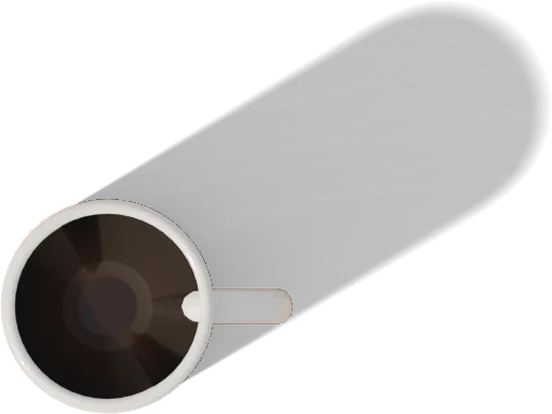
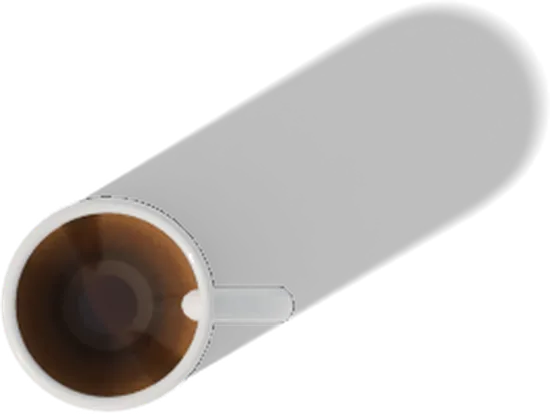
點手機不會再選到後面的報告；乖乖的黑邊拿掉、咖啡看得出是咖啡；乖乖那一站看得到整台筆電
- 兩個東西在畫面上靠得很近時，以手指實際點到的表面決定是哪一個
- 頁面上的乖乖：材質接上貼圖的透明，輪廓外不再是一圈黑
- 頁面上的咖啡：杯緣一圈奶泡、表面有光澤，從上面看不再像一個洞
- 乖乖一站改從右邊拍：旁邊的筆電整台入鏡，標題不再被切一半

Changed region(s): [[0.0, 0.4638, 0.5564, 1.0]]

diff --git a/components/desk/DeskScene.vue b/components/desk/DeskScene.vue
@@ -203,7 +203,7 @@ const STOPS = [
   { id: 'tablet', side: 'right', cam: [-0.3, -0.38, 0.99], at: [-0.45, 0.09, 0.84], spot: [-0.45, 0.09, 0.84] },
   { id: 'reports', cam: [0.48, -0.25, 1.15], at: [0.5, 0.18, 0.78], spot: [0.52, 0.2, 0.79] },
   { id: 'shelf', side: 'right', cam: [0.25, -0.45, 1.5], at: [0.12, 0.52, 1.32], spot: [0.05, 0.52, 1.32] }, // from the right, so the lamp head stays out of frame
-  { id: 'kuaikuai', cam: [0.08, -0.26, 0.98], at: [0.25, 0.13, 0.84], spot: [0.25, 0.12, 0.84] },
+  { id: 'kuaikuai', cam: [0.32, -0.24, 0.98], at: [0.25, 0.13, 0.84], spot: [0.25, 0.12, 0.84] }, // from the right: the laptop beside it whole, not its screen cut mid-sentence
 ]
 
 const stops = computed(() => {
@@ -947,20 +947,30 @@ async function start(small = false) {
     kick()
   }
 
+  const ray = new THREE.Raycaster()
   const onMove = (ev) => {
     const r = canvas.value.getBoundingClientRect()
     mouse.x = ((ev.clientX - r.left) / r.width) * 2 - 1
     mouse.y = ((ev.clientY - r.top) / r.height) * 2 - 1
     // Hover: the nearest stop whose spot is within reach of the pointer.
-    let best = null
+    const near = []
     path.forEach((p, i) => {
       if (!p.spot) return
       const v = p.spot.clone().project(camera)
       const x = ((v.x + 1) / 2) * r.width
       const y = ((1 - v.y) / 2) * r.height
       const d = Math.hypot(x - (ev.clientX - r.left), y - (ev.clientY - r.top))
-      if (v.z < 1 && d < 70 && (!best || d < best.d)) best = { i, d, x, y }
+      if (v.z < 1 && d < 70) near.push({ i, d, x, y })
     })
+    near.sort((a, b) => a.d - b.d)
+    let best = near[0] ?? null
+    // Two things close on screen (the phone stands in front of the reports):
+    // what the pointer is actually on decides, the thing nearest the surface hit.
+    if (near.length > 1) {
+      ray.setFromCamera(new THREE.Vector2(mouse.x, -mouse.y), camera)
+      const hit = ray.intersectObject(gltf.scene, true)[0]
+      if (hit) best = near.reduce((a, c) => (path[c.i].spot.distanceTo(hit.point) < path[a.i].spot.distanceTo(hit.point) ? c : a))
+    }
     // The thing you are standing at opens; any other thing walks you to it.
     const st = best && stops.value[best.i]
     const here = best && best.i === on.value && !moving.value && st.open

diff --git a/components/pages/HomePage.vue b/components/pages/HomePage.vue
@@ -205,8 +205,8 @@ const repo = (n) => alsoBuilt.find((a) => a.name === n)
 // Desk props for the right margin (studio/desk/ship_props.py prints the sizes;
 // they show at half size, sharp on a 2x screen). Same scale for all three.
 const props = [
-  { n: 'mug', w: 276, h: 207 },
-  { n: 'kuaikuai', w: 285, h: 276 },
+  { n: 'mug', w: 275, h: 207 },
+  { n: 'kuaikuai', w: 276, h: 265 },
   { n: 'plant', w: 384, h: 304 },
 ]
 

diff --git a/studio/desk/render_props.py b/studio/desk/render_props.py
@@ -39,6 +39,58 @@ kk = bpy.data.objects['kuaikuai']
 loc = kk.matrix_world.translation.copy()
 kk.matrix_world = Matrix.Translation((loc.x, loc.y, TOP + 0.03)) @ Euler((-math.pi / 2, 0, math.radians(-18))).to_matrix().to_4x4()
 
+# The bag's texture carries its true outline in alpha. Unconnected, the clear
+# margin rendered black around the bag; connected, it cuts the shape and its shadow.
+for m in kk.data.materials:
+    nt = m.node_tree
+    tex = next(n for n in nt.nodes if n.type == 'TEX_IMAGE')
+    nt.links.new(tex.outputs['Alpha'], nt.nodes['Principled BSDF'].inputs['Alpha'])
+
+
+def lin(h):
+    """'#rrggbb' (sRGB) to linear RGBA for colour ramps."""
+    c = [int(h[i:i + 2], 16) / 255 for i in (1, 3, 5)]
+    return [x / 12.92 if x <= 0.04045 else ((x + 0.055) / 1.055) ** 2.4 for x in c] + [1]
+
+
+# Seen from straight above, flat dark coffee read as a hole in the cup. Crema
+# gathers at the rim, mottled, and the surface is glossy enough to catch the window.
+cf = bpy.data.materials['coffee']
+nt = cf.node_tree
+bsdf = nt.nodes['Principled BSDF']
+tc = nt.nodes.new('ShaderNodeTexCoord')
+sep = nt.nodes.new('ShaderNodeSeparateXYZ')
+comb = nt.nodes.new('ShaderNodeCombineXYZ')
+rad = nt.nodes.new('ShaderNodeVectorMath')
+rad.operation = 'LENGTH'
+noise = nt.nodes.new('ShaderNodeTexNoise')
+noise.inputs['Scale'].default_value = 900
+wob = nt.nodes.new('ShaderNodeMath')
+wob.operation = 'MULTIPLY_ADD'
+wob.inputs[1].default_value = 0.005
+rng = nt.nodes.new('ShaderNodeMapRange')
+rng.inputs['From Min'].default_value = 0
+rng.inputs['From Max'].default_value = 0.0375
+ramp = nt.nodes.new('ShaderNodeValToRGB')
+el = ramp.color_ramp.elements
+el[0].position, el[0].color = 0.0, lin('#26120a')
+el[1].position, el[1].color = 1.0, lin('#a26f42')
+for pos, col in ((0.62, '#331a0b'), (0.86, '#6e4220')):
+    e = el.new(pos)
+    e.color = lin(col)
+L = nt.links.new
+L(tc.outputs['Object'], sep.inputs[0])
+L(sep.outputs['X'], comb.inputs['X'])
+L(sep.outputs['Y'], comb.inputs['Y'])
+L(comb.outputs[0], rad.inputs[0])
+L(tc.outputs['Object'], noise.inputs['Vector'])
+L(noise.outputs['Fac'], wob.inputs[0])
+L(rad.outputs['Value'], wob.inputs[2])
+L(wob.outputs[0], rng.inputs['Value'])
+L(rng.outputs['Result'], ramp.inputs['Fac'])
+L(ramp.outputs['Color'], bsdf.inputs['Base Color'])
+bsdf.inputs['Roughness'].default_value = 0.16
+
 cam = bpy.data.cameras.new('top')
 cam.type = 'ORTHO'
 cam.dof.use_dof = False
